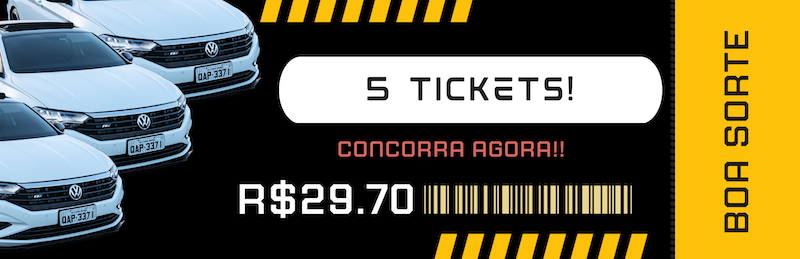
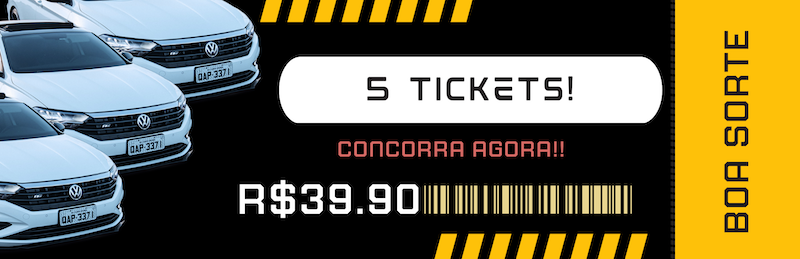
FEITO MANO 2

Changed region(s): [[0.375, 0.7104, 0.5312, 0.834]]

diff --git a/index.html b/index.html
@@ -125,7 +125,7 @@
                                 <h3 class="heading text-white">Essa é boa</h3>
                                 <div class="mb-1 mt-5"></div>
                                 <span class="price-value" style="color: white">
-                                <span class="currency">R$</span> 29,70
+                                <span class="currency">R$</span> 39,90
                             </span>
                             </div>
                             <span class="imgHolder full-width">
@@ -136,7 +136,7 @@
                                 <ul>
                                     <li>COMPRE 3 NÚMEROS LEVE 5!</li>
                                 </ul>
-                                <a  onclick="onBuy(3)"  class="read">COMPRAR</a>
+                                <a href="https://checkout.payt.com.br/f80ebff16ccaa9b48a0224d7c489cef4" target="_blank" class="read">COMPRAR</a>
                             </div>
                         </div>
                     </div>
@@ -147,7 +147,7 @@
                                 <div class="mb-1 mt-5"></div>
 
                                 <span class="price-value" style="color: white">
-                                <span class="currency">R$</span> 49,50
+                                <span class="currency">R$</span> 69,90
                             </span>
                             </div>
                             <span class="imgHolder full-width">
@@ -159,7 +159,7 @@
                                 <ul>
                                     <li>COMPRE 5 NÚMEROS LEVE 10!</li>
                                 </ul>
-                                <a  onclick="onBuy(5)"  class="read">COMPRAR</a>
+                                <a href="https://checkout.payt.com.br/8e0ce414531179ae9b7f60e20351ee8b" target="_blank" class="read">COMPRAR</a>
                             </div>
 
                         </div>
@@ -184,13 +184,13 @@
                                 <ul>
                                     <li>ESCOLHA A QUANTIDADE!</li>
                                 </ul>
-                                <a style="color: black;background: linear-gradient(45deg, #fec109, #fec109)" onclick="onBuy()" class="read buttonToClick">COMPRAR AGORA!</a>
+                                <div style="color: black; cursor: pointer; background: linear-gradient(45deg, #fec109, #fec109)" onclick="onBuy()" class="read buttonToClick">COMPRAR AGORA!</div>
                             </div>
 
                             <div class="ctrl m-auto">
                                 <div class="ctrl__button ctrl__button--decrement">–</div>
                                 <div class="ctrl__counter">
-                                    <input class="ctrl__counter-input" maxlength="10" type="text" value="1">
+                                    <input class="ctrl__counter-input" maxlength="10" type="text" value="11">
                                     <div class="ctrl__counter-num">11</div>
                                 </div>
                                 <div class="ctrl__button ctrl__button--increment">+</div>
